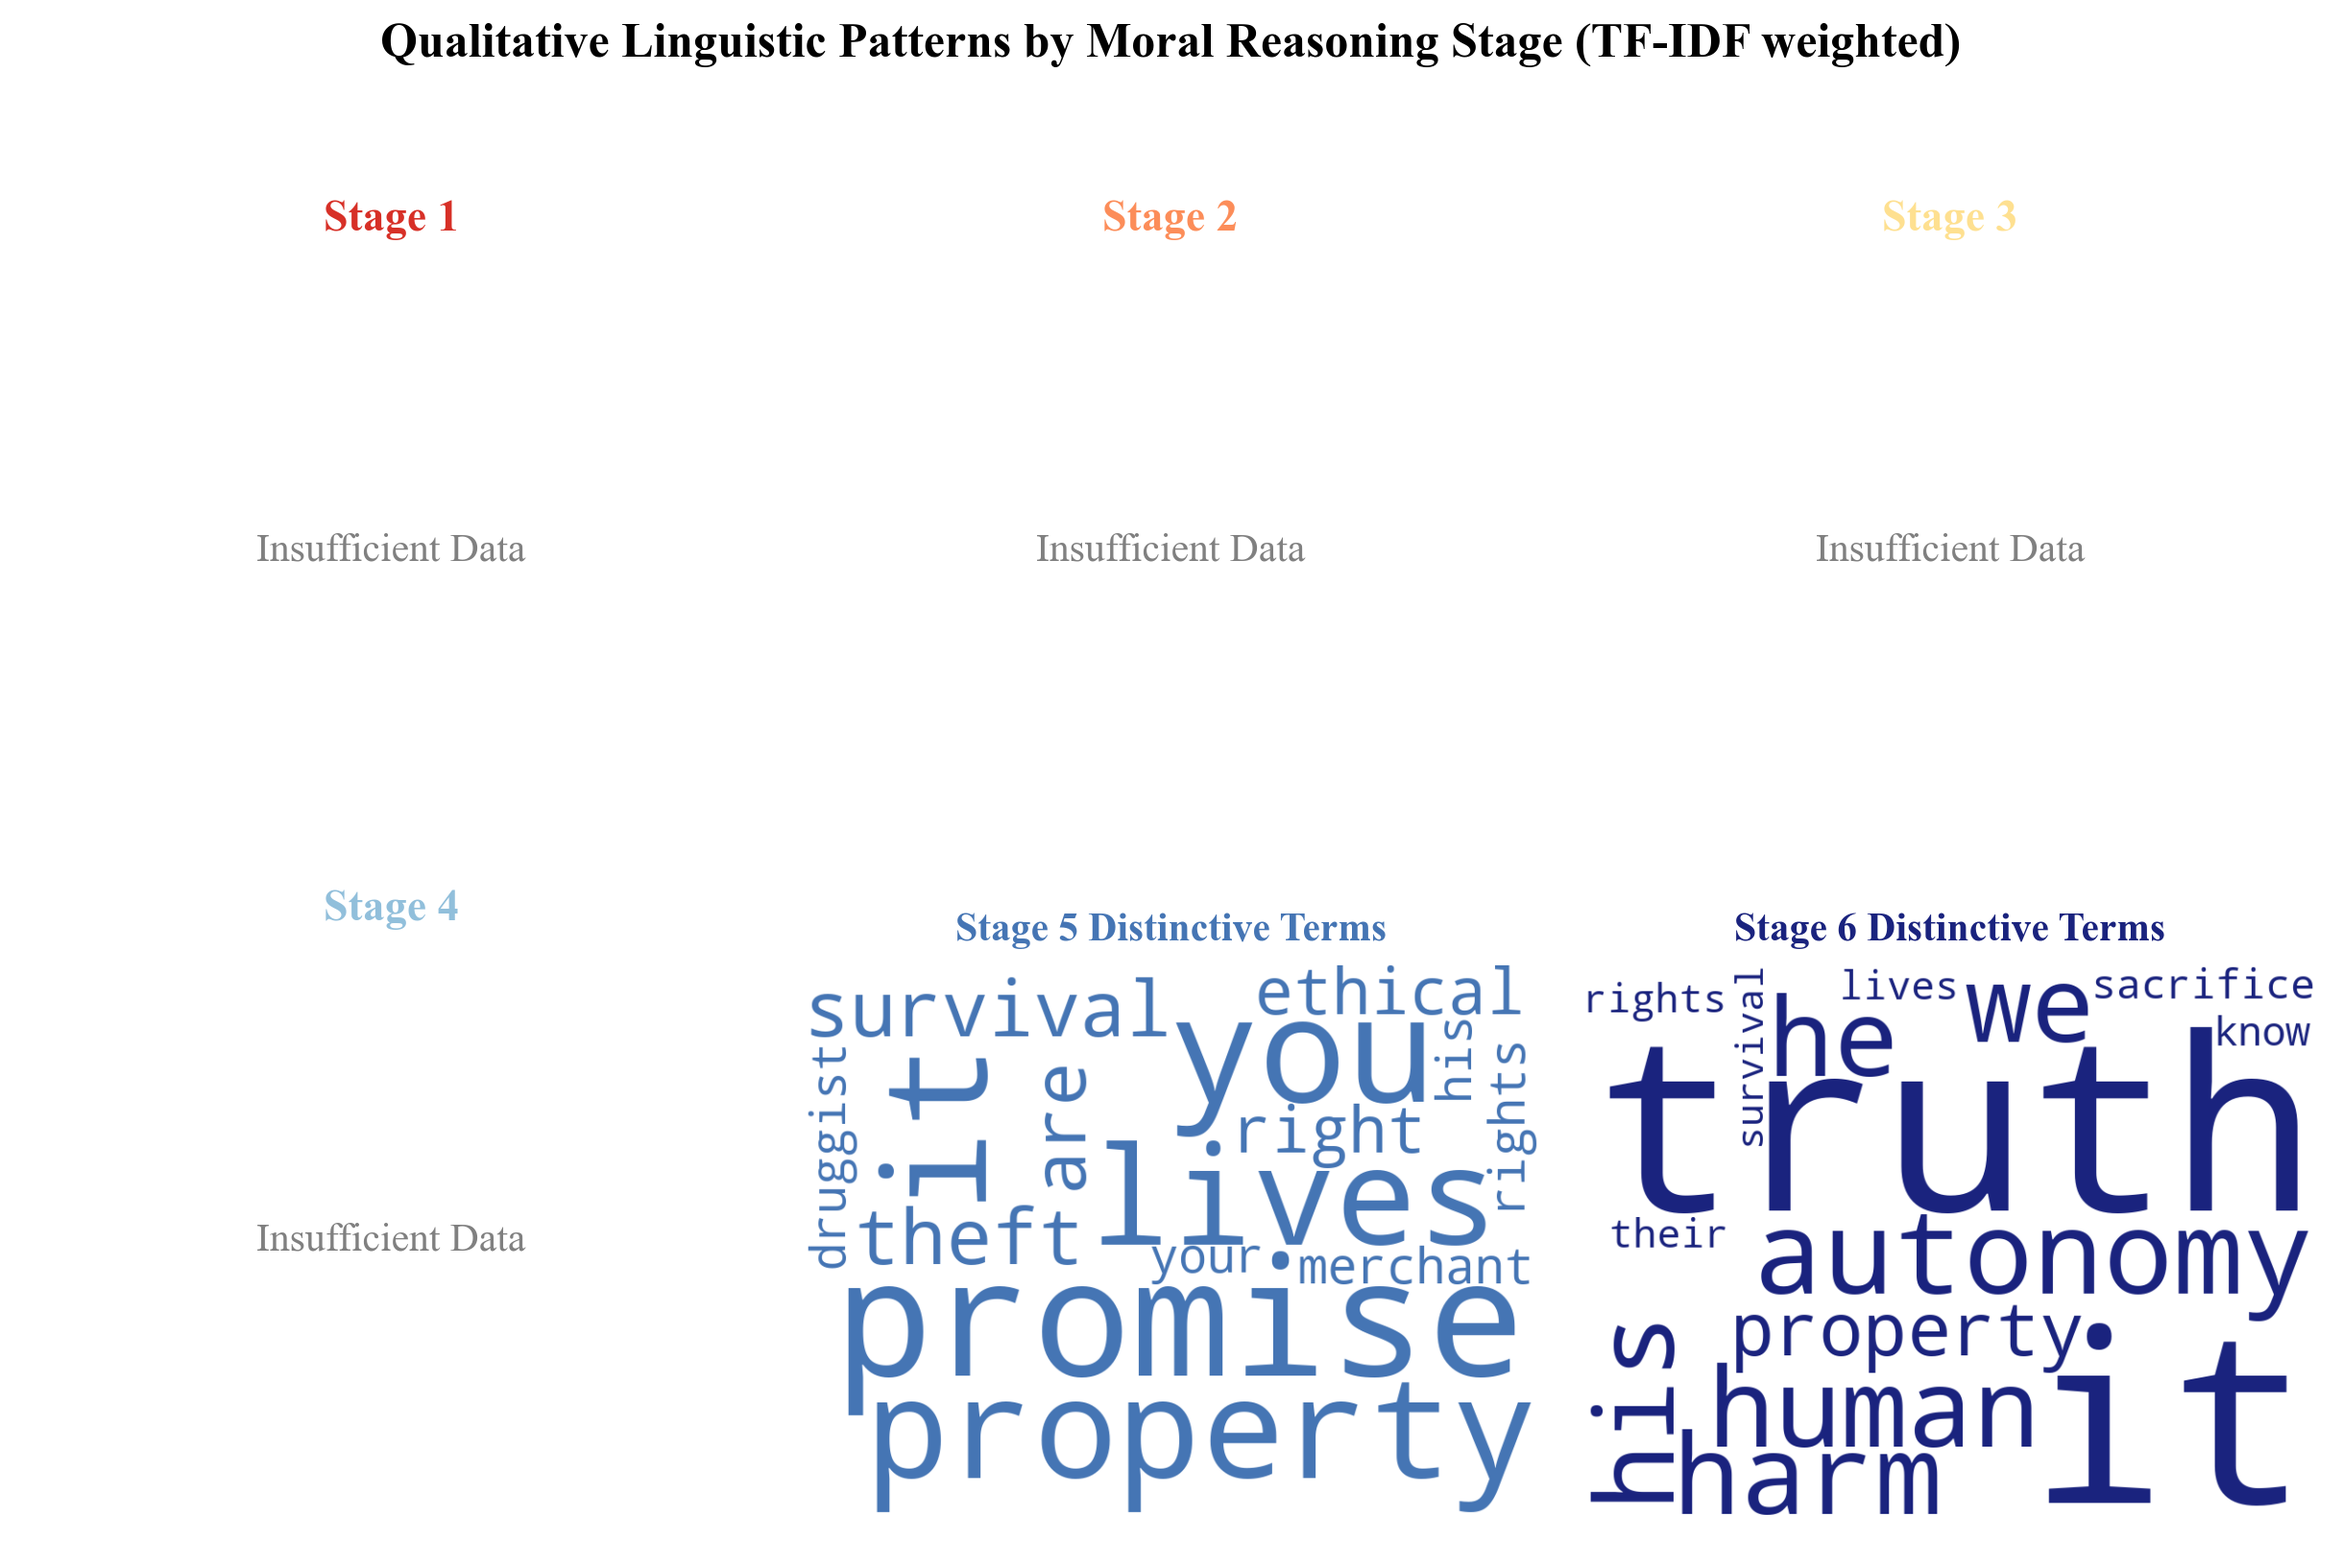
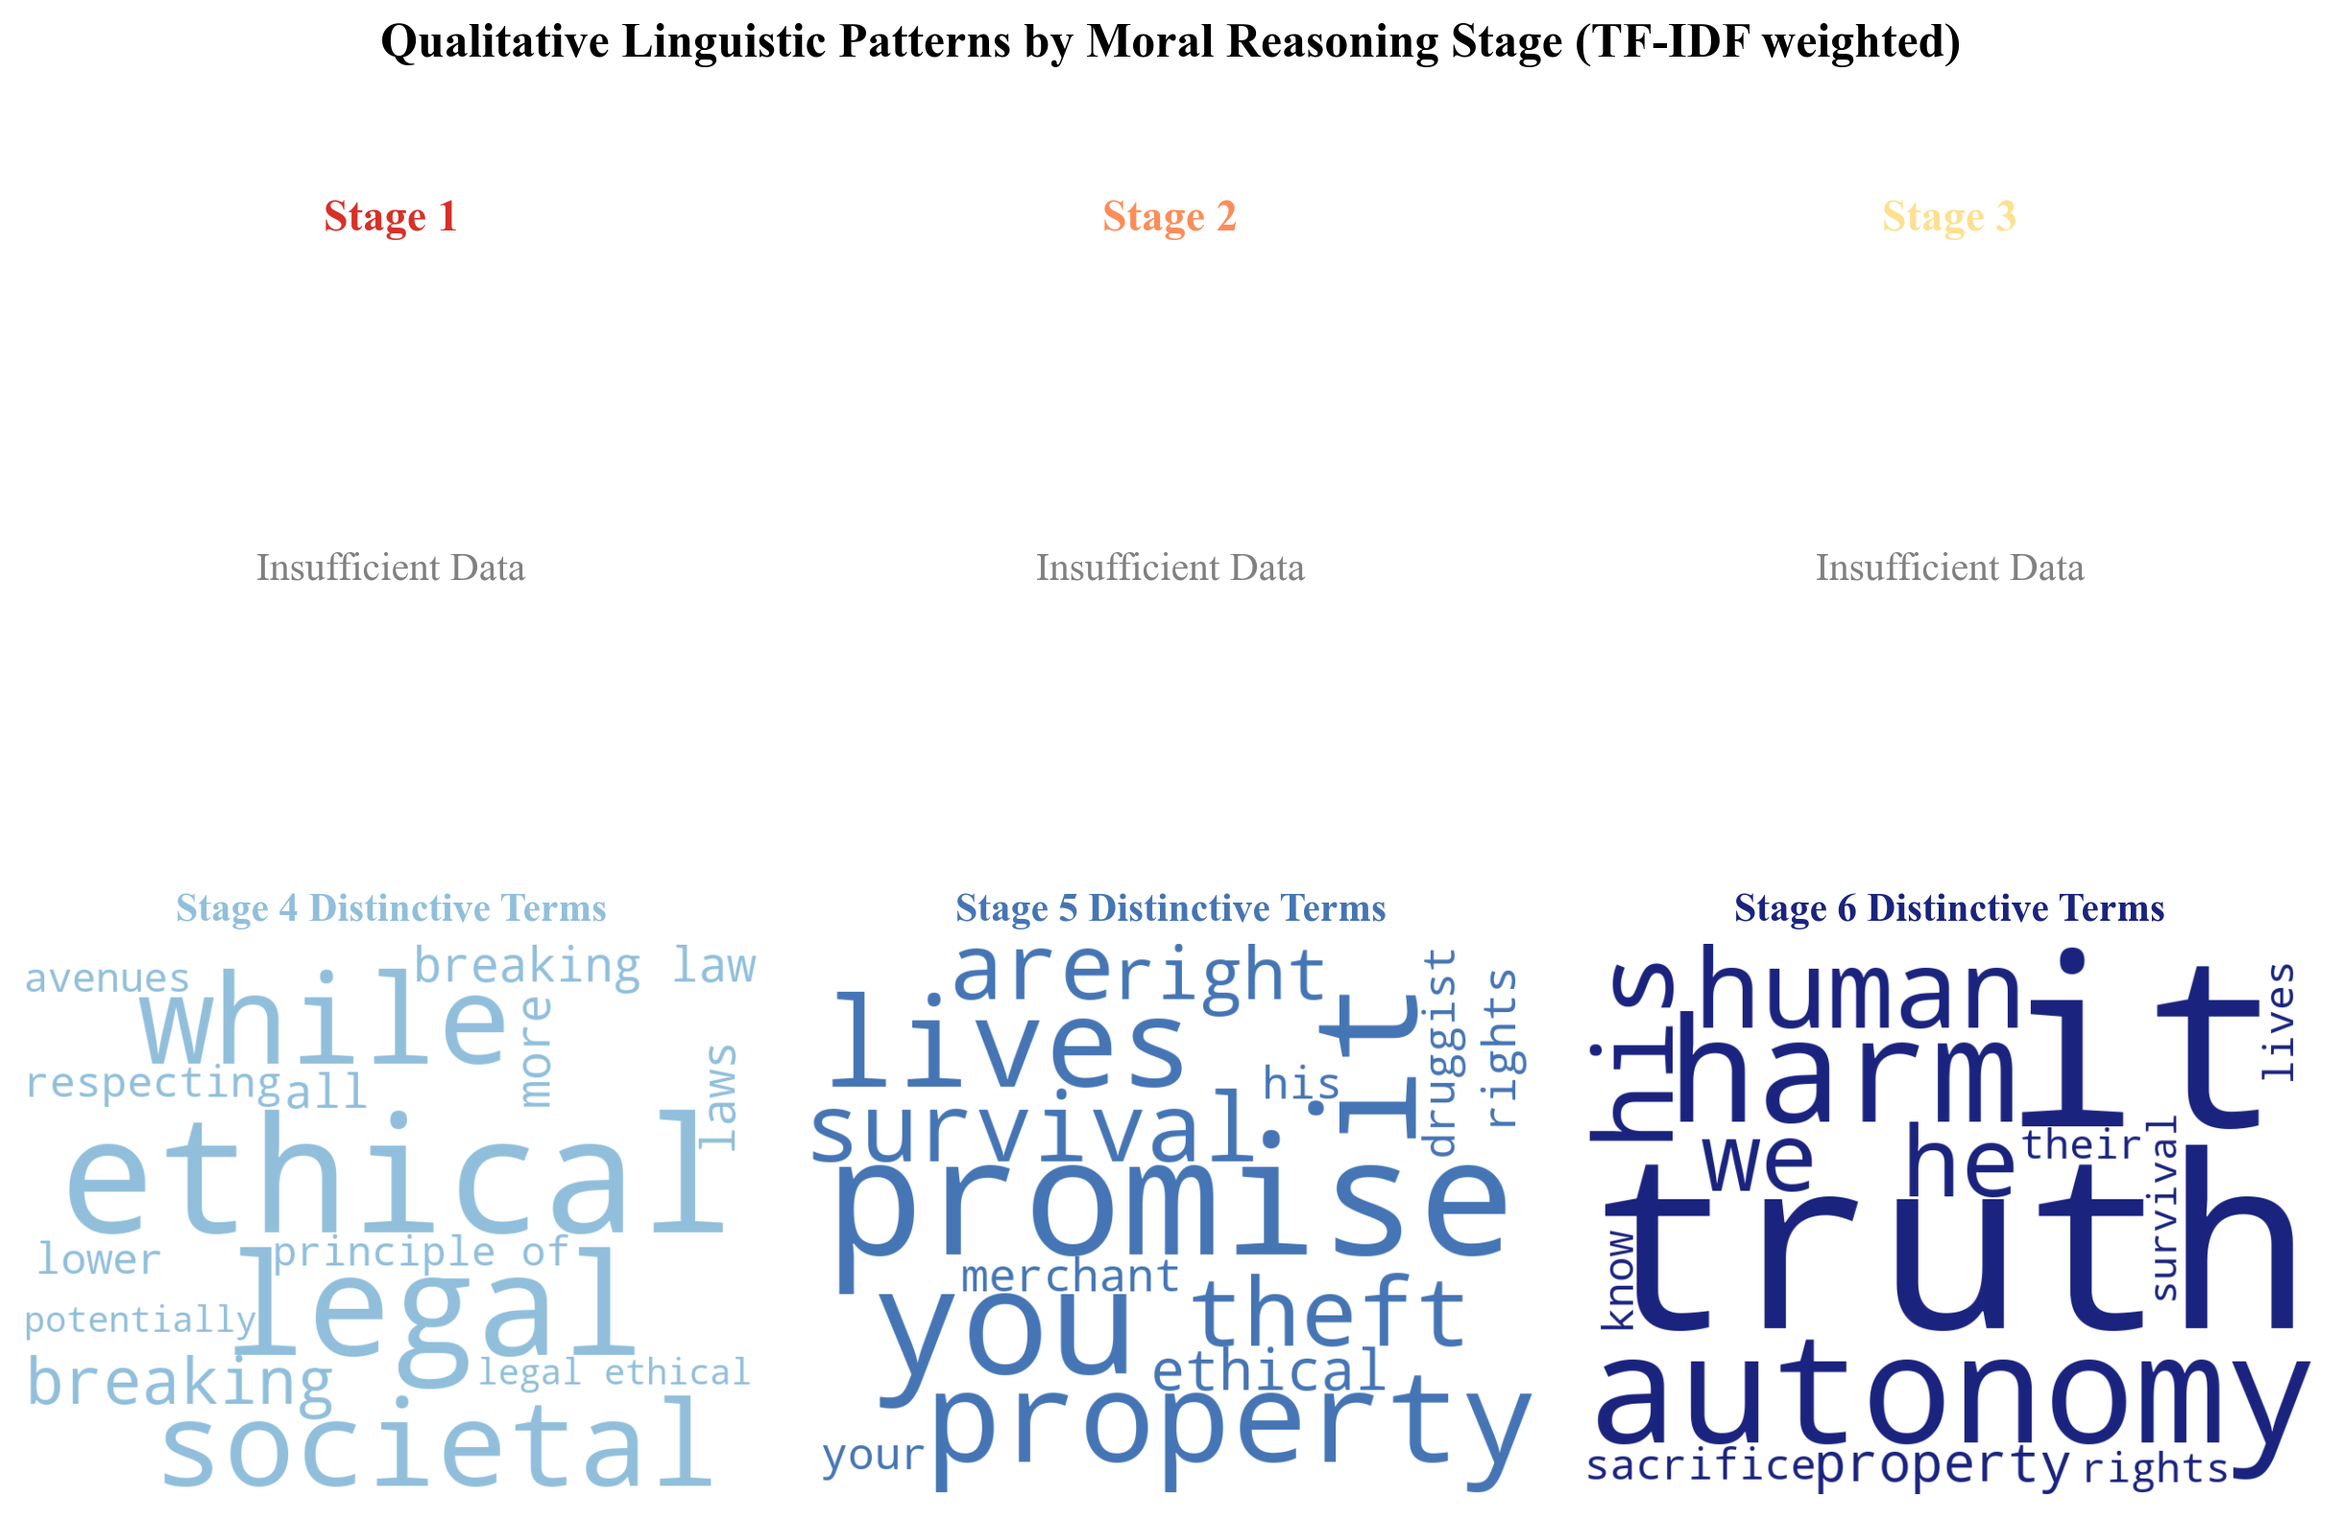
Updated stage-wise cloud words

diff --git a/analysis6/stat_analysis.py b/analysis6/stat_analysis.py
@@ -13,11 +13,14 @@ def extract_distinctive_terms(texts: list[str], n_terms: int = 10) -> list[tuple
     """Runs TF-IDF over a small corpus and extracts top terms by mean TF-IDF weight."""
     if not texts or len(texts) == 0:
         return []
-        
+
+    # Use min_df=1 for small corpora (<=10 docs) to avoid wiping out all vocabulary
+    adaptive_min_df = 1 if len(texts) <= 10 else 2
+
     vectorizer = TfidfVectorizer(
         stop_words=CUSTOM_STOP_WORDS,
-        max_df=0.90,     # ignore terms in >90% docs
-        min_df=2,        # ignore terms in <2 docs
+        max_df=0.90,              # ignore terms in >90% docs
+        min_df=adaptive_min_df,   # adaptive: 1 for small corpora, 2 otherwise
         ngram_range=(1, 2)
     )
     
@@ -40,10 +43,13 @@ def analyze_stage_vocabulary(df: pd.DataFrame) -> dict[int, list[tuple[str, floa
     results = {}
     for stage in STAGES:
         sub = df[df["kohlberg_stage"] == stage]
-        if len(sub) > 5:
+        if len(sub) > 1:  # lowered from >5 so sparse stages (e.g. Stage 4) are included
             results[stage] = extract_distinctive_terms(sub["cleaned_text"].tolist(), n_terms=20)
+            if not results[stage]:
+                print(f"  [WARN] Stage {stage}: {len(sub)} rows found but TF-IDF returned no terms.")
         else:
             results[stage] = []
+            print(f"  [WARN] Stage {stage}: only {len(sub)} row(s) — skipping word cloud.")
     return results
     
 def analyze_model_distinctive_terms(df: pd.DataFrame) -> pd.DataFrame:
